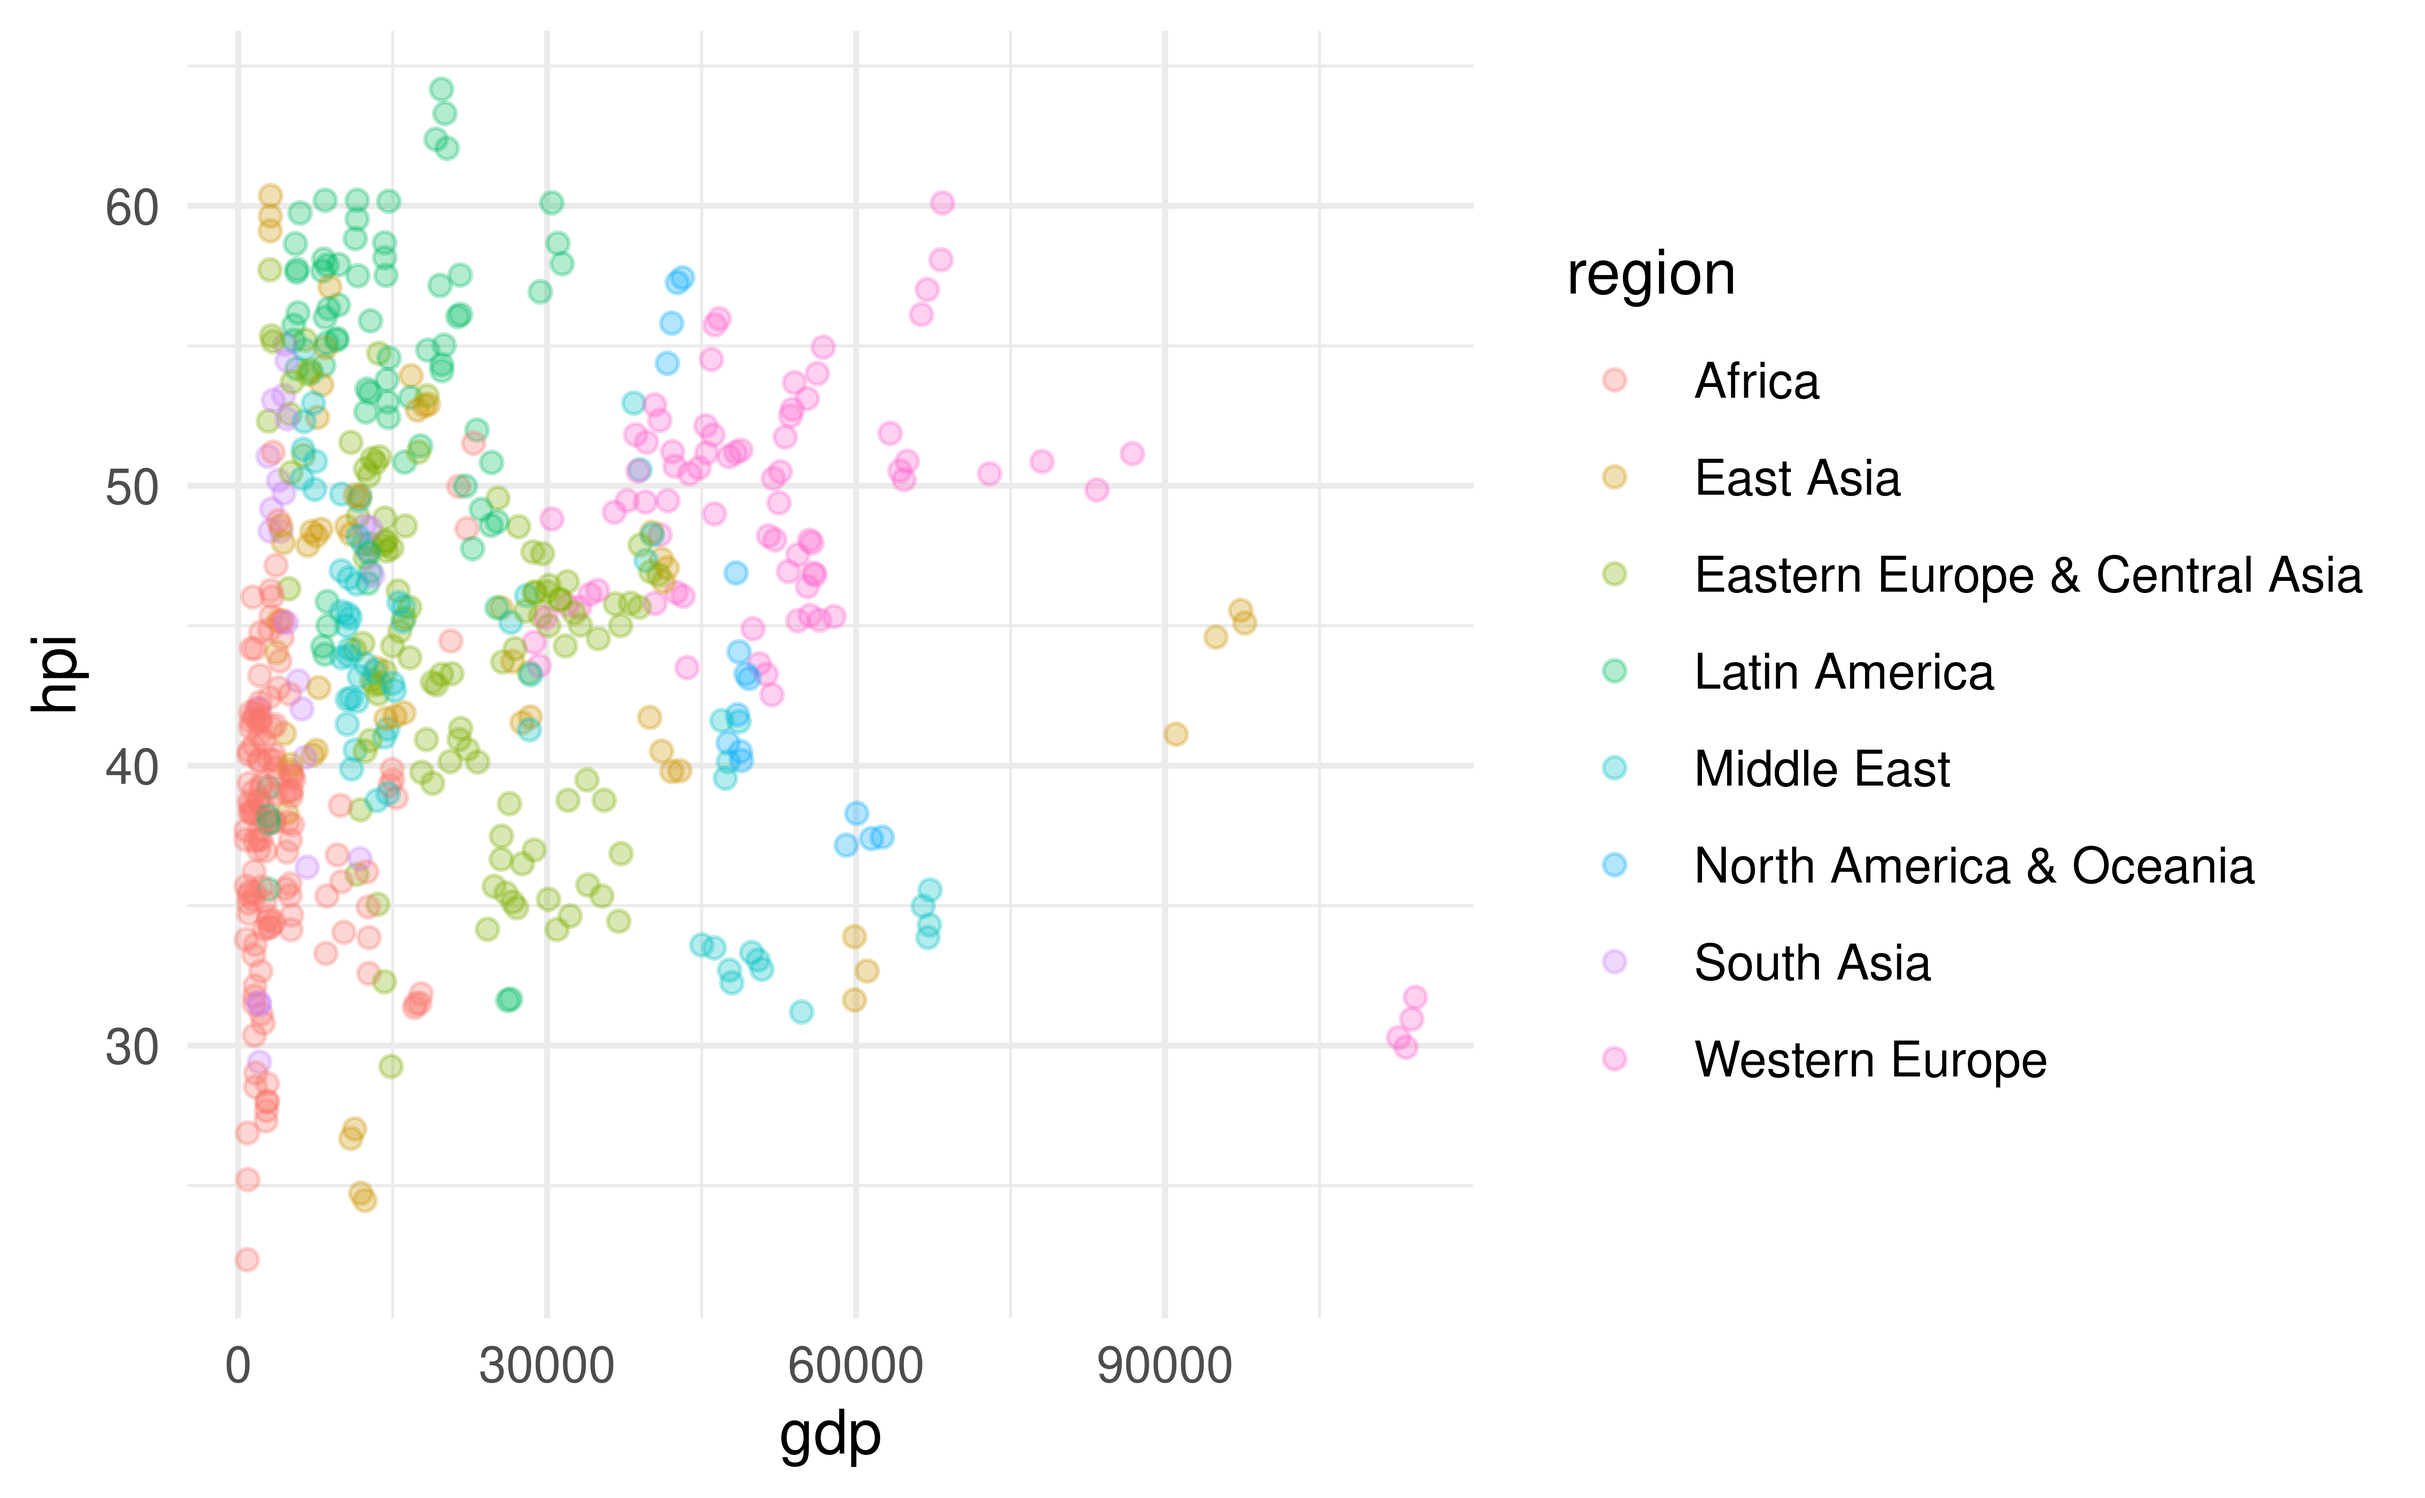
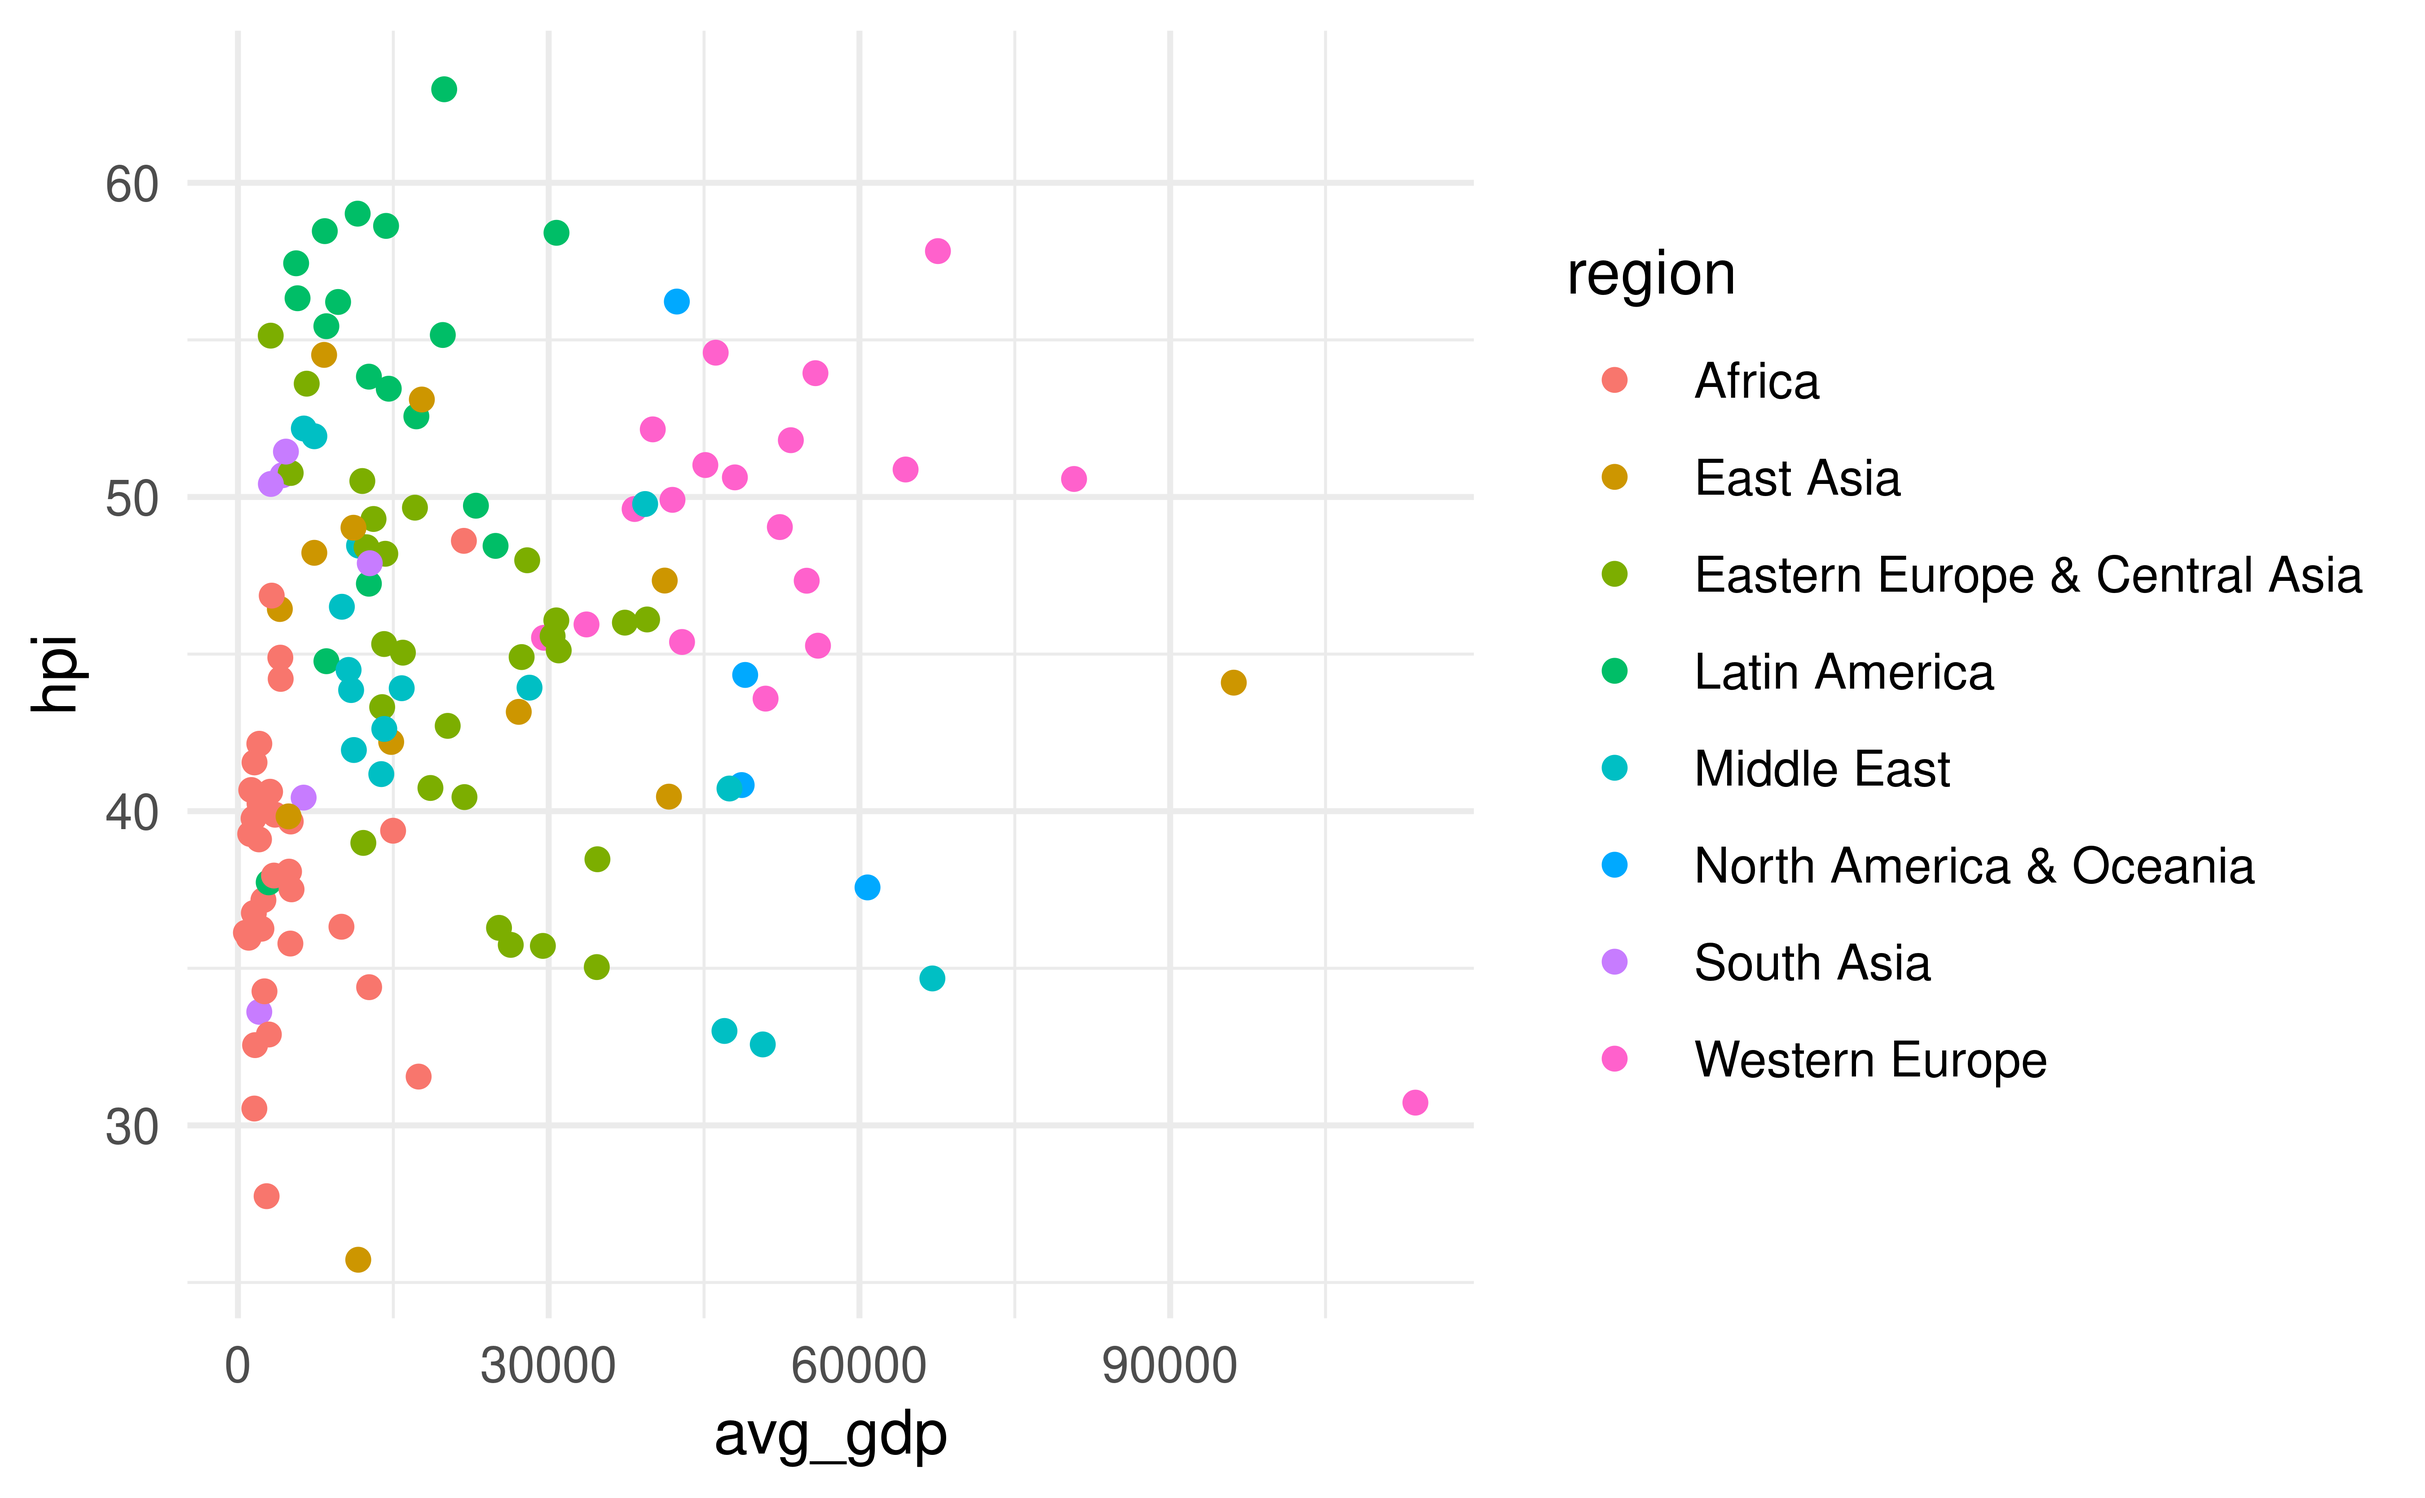
added graphs to presentation

diff --git a/presentation/CopyOfxaringan_template/presentation.html b/presentation/CopyOfxaringan_template/presentation.html
@@ -40,11 +40,11 @@ class: center, middle
 
 --
 
-- 'happy' as in well-being
+- Our well-being
 
 --
 
-- 'happy' as in respectful of the environment
+- The envirnoment's well-being
 
 ---
 
@@ -92,7 +92,15 @@ class: center, middle
 
 ---
 
-# Text
+class: center, middle
+
+&lt;img src="presentation_files/figure-html/happy life years and gdp plot-1.png" width="80%" /&gt;
+
+---
+
+class: center, middle
+
+&lt;img src="presentation_files/figure-html/happy life years and gdp plots-1.png" width="80%" /&gt;
 
 ---
 
